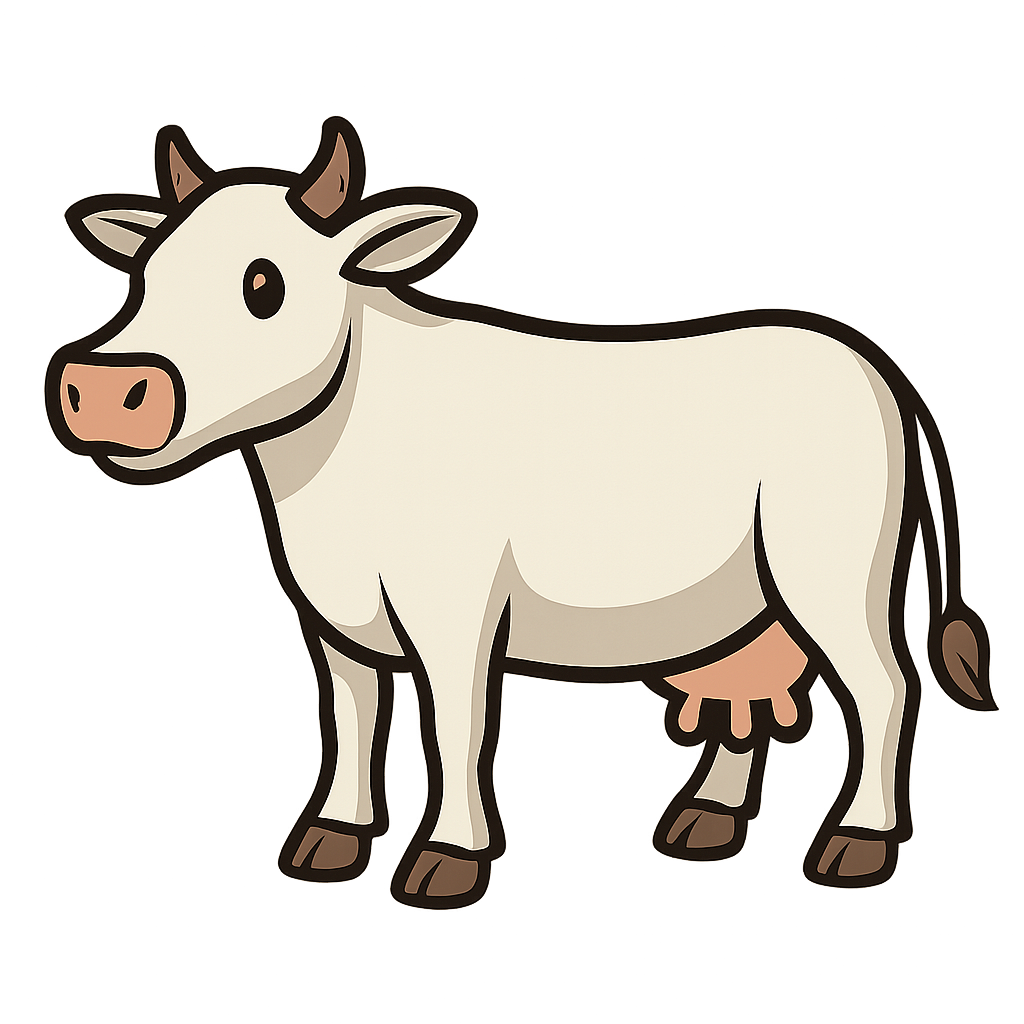
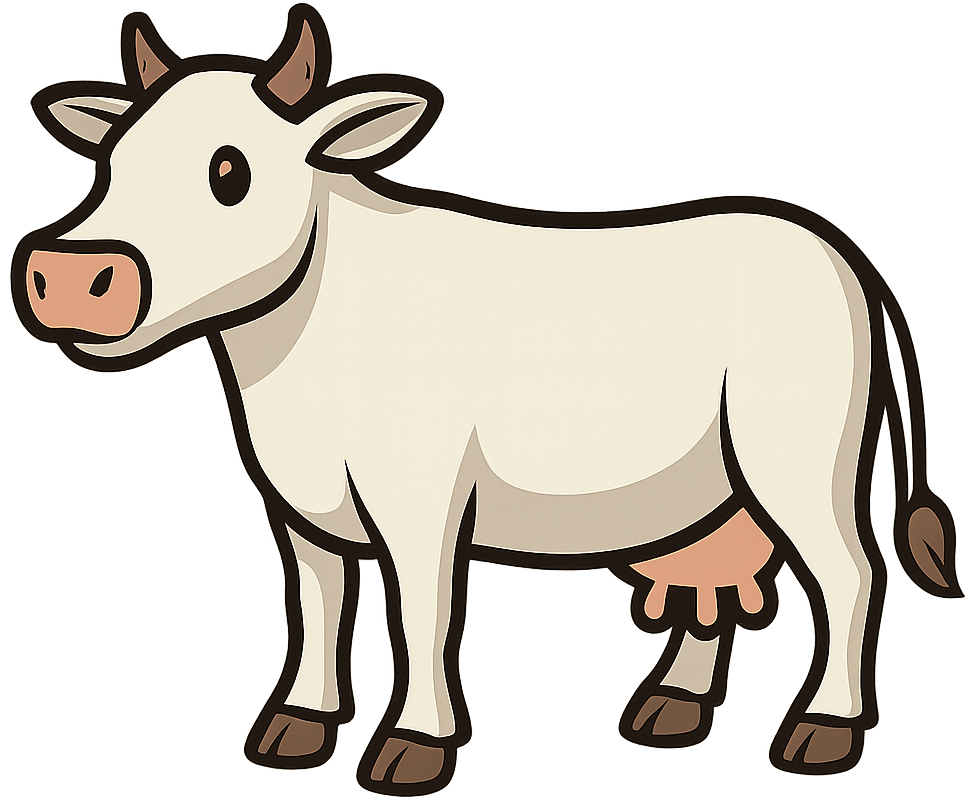
crop the cow

Changed region(s): [[0.0, 0.0, 0.9836, 0.9901]]

diff --git a/src/MainGame.css b/src/MainGame.css
@@ -32,6 +32,8 @@
 
 .cow {
   grid-area: 1 / 1;
+  inline-size: 80cqmin;
+  translate: 0 -10cqb;
 }
 
 .cow:hover {
@@ -45,9 +47,4 @@
   object-fit: contain;
   object-position: bottom center;
   /* background-color: green; */
-}
-
-.cow {
-  inline-size: 80cqmin;
-  translate: 0 -3cqb;
 }
